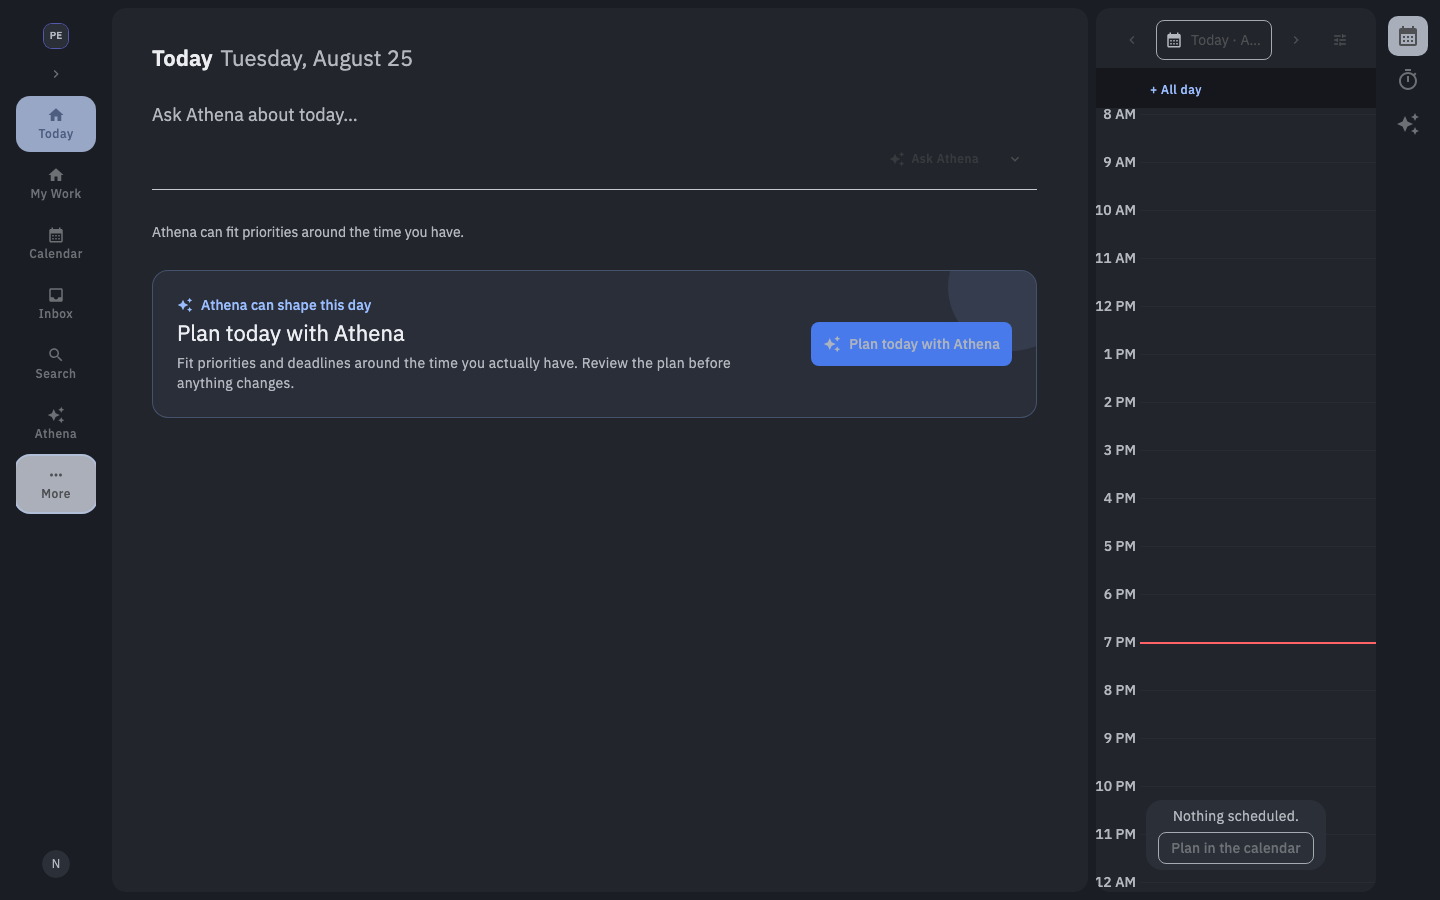
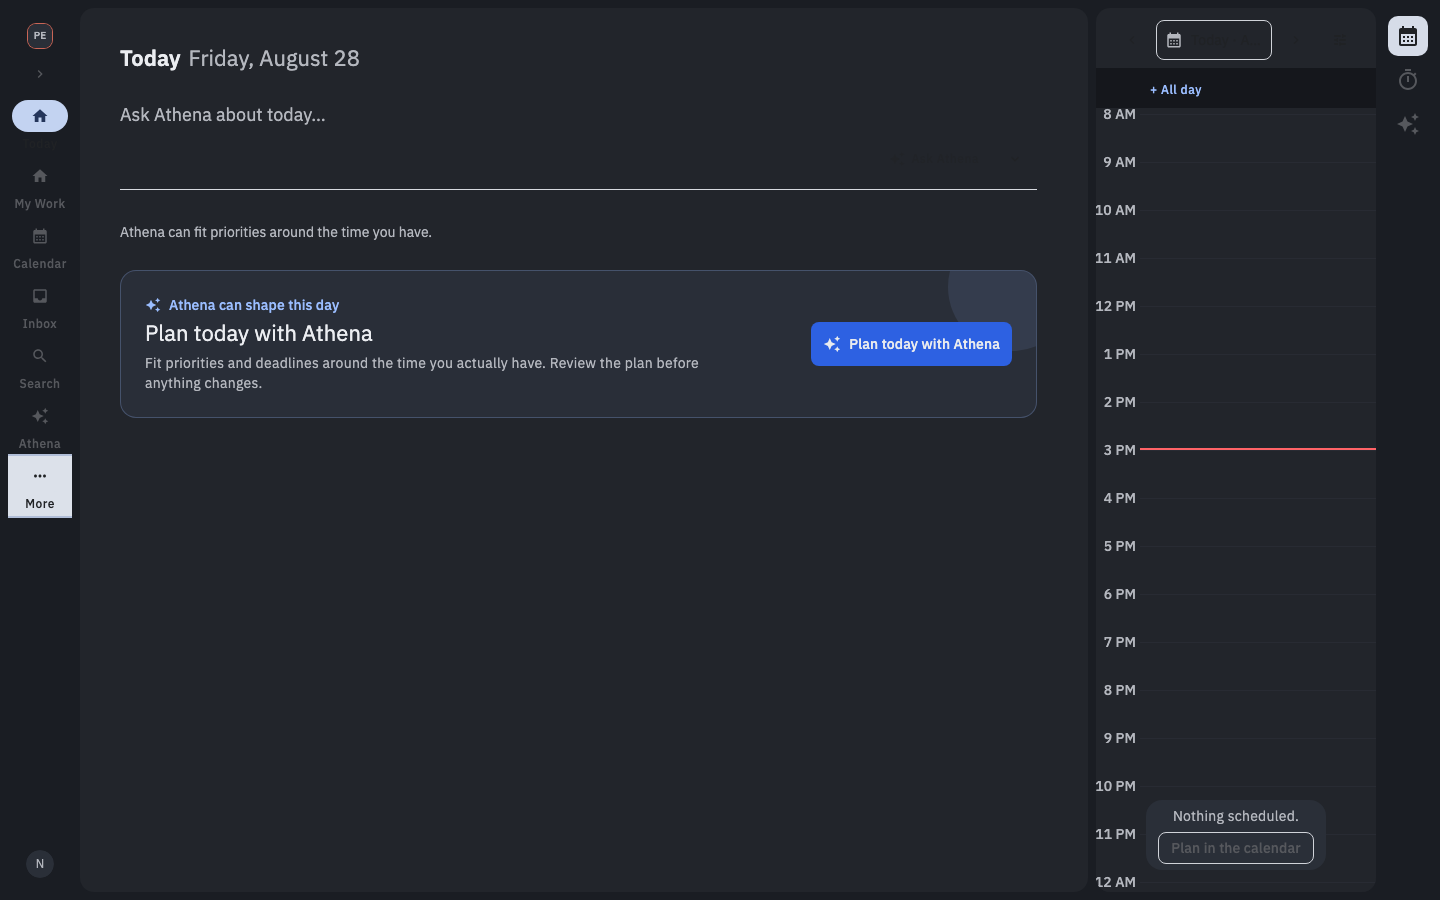
fix(ui): Keep collapsed navigation within the MD3 rail width
The collapsed shell reserved 112px before main content because it
combined Material 3 Expressive's 96px rail with an outer inset and
column gap. Docket uses the baseline Material 3 component measurements,
so the shell now treats the complete viewport-to-main region as one 80px
contract.

Navigation items now use baseline MD3 spacing, 24px icons, and 56x32px
active indicators. The shell test derives the full region from rendered
classes, and the authenticated browser evidence measures the real
main-content boundary.

diff --git a/packages/ui/src/components/shell/NavigationRail.tsx b/packages/ui/src/components/shell/NavigationRail.tsx
@@ -79,14 +79,22 @@ function RailDestination({
   const Icon = destination.icon;
   const label = destinationLabel(destination, unreadCount ?? 0);
   const className = cn(
-    'text-label-medium focus-visible:ring-ring flex min-h-14 w-full flex-col items-center justify-center gap-0.5 rounded-xl px-1 py-1.5 text-center transition-colors focus-visible:ring-2 focus-visible:outline-none [&_svg]:size-5',
-    destination.active
-      ? 'bg-secondary-container text-on-secondary-container'
-      : 'text-on-surface-variant hover:bg-surface-container-high hover:text-on-surface',
+    'group text-label-medium focus-visible:ring-ring flex min-h-[3.75rem] w-full flex-col items-center justify-center gap-1 rounded-none px-1 py-1 text-center transition-colors focus-visible:ring-2 focus-visible:outline-none',
+    destination.active ? 'text-on-surface' : 'text-on-surface-variant hover:text-on-surface',
   );
   const content = (
     <>
-      <Icon aria-hidden="true" />
+      <span
+        data-slot="navigation-rail-active-indicator"
+        className={cn(
+          'flex h-8 w-14 shrink-0 items-center justify-center rounded-full transition-colors',
+          destination.active
+            ? 'bg-secondary-container text-on-secondary-container'
+            : 'group-hover:bg-surface-container-high',
+        )}
+      >
+        <Icon aria-hidden="true" className="size-6" />
+      </span>
       <span className="max-w-full truncate">{destination.label}</span>
     </>
   );
@@ -198,7 +206,7 @@ export function NavigationRail({
   return (
     <aside
       aria-label="Navigation"
-      className="text-on-surface flex h-full w-full shrink-0 flex-col items-center p-2 motion-reduce:transition-none lg:w-24 lg:transition-[width] lg:duration-200 lg:ease-out"
+      className="text-on-surface flex h-full w-full shrink-0 flex-col items-center px-0 py-2 motion-reduce:transition-none lg:w-16 lg:transition-[width] lg:duration-200 lg:ease-out"
     >
       <div className="flex w-full shrink-0 flex-col items-center gap-1">
         <WorkspaceSwitcher
@@ -225,7 +233,7 @@ export function NavigationRail({
       </div>
 
       <nav aria-label="Primary navigation" className="min-h-0 w-full flex-1 overflow-y-auto pt-2">
-        <div className="flex flex-col gap-1">
+        <div className="flex flex-col gap-0">
           {railDestinations.map((destination) => (
             <div
               key={destination.id}
@@ -249,9 +257,11 @@ export function NavigationRail({
                 type="button"
                 variant="ghost"
                 aria-label="More navigation"
-                className="text-label-medium text-on-surface-variant hover:bg-surface-container-high hover:text-on-surface focus-visible:ring-ring flex min-h-14 w-full flex-col items-center justify-center gap-0.5 rounded-xl px-1 py-1.5 text-center transition-colors focus-visible:ring-2 focus-visible:outline-none [&_svg]:size-5"
+                className="group text-label-medium text-on-surface-variant hover:text-on-surface focus-visible:ring-ring flex min-h-[3.75rem] w-full flex-col items-center justify-center gap-1 rounded-none px-1 py-1 text-center transition-colors focus-visible:ring-2 focus-visible:outline-none"
               >
-                <Ellipsis aria-hidden="true" />
+                <span className="group-hover:bg-surface-container-high flex h-8 w-14 shrink-0 items-center justify-center rounded-full transition-colors">
+                  <Ellipsis aria-hidden="true" className="size-6" />
+                </span>
                 <span>More</span>
               </Button>
             </DropdownMenuTrigger>

diff --git a/packages/ui/src/components/shell/AppShell.tsx b/packages/ui/src/components/shell/AppShell.tsx
@@ -140,16 +140,17 @@ export const SHELL_DESKTOP_MIN_PX = 1024;
 export const SHELL_DESKTOP_CHROME_PX = 328;
 
 /**
- * The same chrome with the sidebar collapsed to its labeled MD3 rail: 96px of sidebar in place of
- * 240px.
+ * The same chrome with the sidebar collapsed to its labeled MD3 rail: an 80px region in place of
+ * the expanded sidebar's 256px region. The region includes the shell's 8px leading inset, the
+ * 64px navigation column, and the 8px gap before `<main>`.
  *
  * @remarks
  * The column *count* is unchanged, so the 40px of gutters and the 48px activity bar are identical —
- * only the sidebar's own width moves, and it moves by a constant. Collapsing therefore hands
- * `<main>` a flat 144px at every width rather than a share, which is why it can be offered at all
+ * only the sidebar region's width moves, and it moves by a constant. Collapsing therefore hands
+ * `<main>` a flat 176px at every width rather than a share, which is why it can be offered at all
  * widths without putting a slope anywhere in the contract.
  */
-export const SHELL_DESKTOP_CHROME_COLLAPSED_PX = 184;
+export const SHELL_DESKTOP_CHROME_COLLAPSED_PX = 152;
 
 /**
  * The viewport width at or above which the sidebar starts out expanded.
@@ -158,8 +159,8 @@ export const SHELL_DESKTOP_CHROME_COLLAPSED_PX = 184;
  * Below this the shell has to spend its width on the content and the rail, and a 240px column of
  * labels is the least valuable of the three — the same daily destinations stay visible in the
  * labeled rail. Sampled **once, at mount**, and only when the viewer has expressed no preference:
- * making it track the window live would mean dragging a window across 1440px silently took 144px away from
- * `<main>`, which is the exact discontinuity the rest of this contract exists to prevent.
+ * making it track the window live would mean dragging a window across 1440px silently took 176px
+ * away from `<main>`, which is the exact discontinuity the rest of this contract exists to prevent.
  */
 export const SHELL_SIDEBAR_EXPAND_MIN_PX = 1440;
 
@@ -272,7 +273,7 @@ function readRailState(): RailState {
  *
  * Deliberately **not** re-evaluated on resize. The width test is a first-run default, not a
  * responsive rule: recomputing it live would make dragging a window across
- * {@link SHELL_SIDEBAR_EXPAND_MIN_PX} hand `<main>` 144px less than it had a pixel earlier, which is
+ * {@link SHELL_SIDEBAR_EXPAND_MIN_PX} hand `<main>` 176px less than it had a pixel earlier, which is
  * precisely the discontinuity the layout contract forbids.
  */
 function readSidebarCollapsed(): boolean {

diff --git a/packages/ui/tests/components/shell/shell-layout-contract.test.tsx b/packages/ui/tests/components/shell/shell-layout-contract.test.tsx
@@ -117,9 +117,9 @@ const SHELL_STATES = [
  * geometry read below would measure the *collapsed* column and every arithmetic check would be
  * against a chrome width the contract does not advertise.
  */
-function renderShell(): void {
+function renderShell(sidebarCollapsed = false): void {
   window.localStorage.setItem('docket.rail.collapsed', '0');
-  window.localStorage.setItem('docket.sidebar.collapsed', '0');
+  window.localStorage.setItem('docket.sidebar.collapsed', sidebarCollapsed ? '1' : '0');
   render(
     <ContextProvider initialContext={ACME.id}>
       <AppShell
@@ -140,6 +140,23 @@ function renderShell(): void {
       </AppShell>
     </ContextProvider>,
   );
+}
+
+/** The complete horizontal region consumed before collapsed navigation hands off to `<main>`. */
+function collapsedNavigationRegionPx(): number {
+  const main = screen.getByRole('main');
+  const shell = main.closest('[data-density]');
+  if (!shell) throw new Error('The shell root must carry data-density');
+
+  const padding = /(?:^| )lg:p-(\d+)(?: |$)/.exec(shell.className);
+  const gap = /(?:^| )lg:gap-(\d+)(?: |$)/.exec(shell.className);
+  if (!padding?.[1] || !gap?.[1]) throw new Error('The shell root must declare lg padding and gap');
+
+  const nav = screen.getByRole('complementary', { name: 'Navigation' });
+  const navWidth = columnWidthPx(nav, 'lg:');
+  if (navWidth === null) throw new Error('The collapsed navigation must declare a fixed width');
+
+  return spacingPx(Number(padding[1])) + navWidth + spacingPx(Number(gap[1]));
 }
 
 /** The shell's measured inputs, read out of one render of the real components. */
@@ -217,8 +234,10 @@ const DESKTOP_WIDTHS = Array.from(
 const COMPACT_WIDTHS = Array.from({ length: SHELL_DESKTOP_MIN_PX - 320 }, (_, i) => 320 + i);
 
 describe('AppShell layout contract — geometry read from the rendered shell', () => {
-  it('reserves 96px for the labeled navigation rail when the sidebar is collapsed', () => {
-    expect(SHELL_DESKTOP_CHROME_COLLAPSED_PX).toBe(SHELL_DESKTOP_CHROME_PX - 144);
+  it('keeps the entire collapsed navigation region within the 80px MD3 rail width', () => {
+    renderShell(true);
+
+    expect(collapsedNavigationRegionPx()).toBe(80);
   });
 
   it('sizes the rail as a viewport share, and every other column as a constant', () => {

diff --git a/apps/web/e2e/shell/navigation-rail-evidence.spec.ts b/apps/web/e2e/shell/navigation-rail-evidence.spec.ts
@@ -24,6 +24,22 @@ async function expectNoHorizontalOverflow(page: Page): Promise<void> {
   expect(dimensions.scrollWidth).toBeLessThanOrEqual(dimensions.clientWidth + 1);
 }
 
+/** Assert that every collapsed-navigation pixel, including shell spacing, fits the MD3 width. */
+async function expectCollapsedNavigationRegion(page: Page): Promise<void> {
+  const geometry = await page.evaluate(() => {
+    const main = document.querySelector<HTMLElement>('main#main-content');
+    const navigation = document.querySelector<HTMLElement>('aside[aria-label="Navigation"]');
+    if (!main || !navigation) throw new Error('The shell navigation and main content must exist');
+    return {
+      mainStart: main.getBoundingClientRect().left,
+      navigationWidth: navigation.getBoundingClientRect().width,
+    };
+  });
+
+  expect(geometry.mainStart).toBe(80);
+  expect(geometry.navigationWidth).toBe(64);
+}
+
 test('the labeled navigation rail keeps daily work visible at every density', async ({ page }) => {
   test.setTimeout(240_000);
   mkdirSync(SHOT_ROOT, { recursive: true });
@@ -56,6 +72,7 @@ test('the labeled navigation rail keeps daily work visible at every density', as
     /Today[\s\S]*My Work[\s\S]*Calendar[\s\S]*Inbox[\s\S]*Search[\s\S]*Athena[\s\S]*More/,
   );
   await expect(page.getByRole('button', { name: 'Expand navigation' })).toBeFocused();
+  await expectCollapsedNavigationRegion(page);
   await page.screenshot({ path: resolve(SHOT_ROOT, 'rail-1440x900-light.png') });
 
   await page.getByRole('button', { name: 'More navigation' }).click();

diff --git a/packages/ui/tests/components/shell/navigation-rail.test.tsx b/packages/ui/tests/components/shell/navigation-rail.test.tsx
@@ -18,6 +18,7 @@ function renderRail(unreadCount?: number): void {
       <ShellSidebarProvider value={{ collapsed: true, onToggle: () => undefined }}>
         <Sidebar
           workspaces={[ACME]}
+          activeHomeKey="today"
           unreadCount={unreadCount}
           hrefForHome={(key) => `/${key}`}
           hrefForWorkspace={(orgId, key) => `/orgs/${orgId}/${key}`}
@@ -38,6 +39,21 @@ describe('collapsed sidebar navigation rail', () => {
     expect(screen.getByRole('navigation', { name: 'Primary navigation' })).toHaveTextContent(
       'TodayMy WorkCalendarInboxSearchAthenaMore',
     );
+  });
+
+  it('uses the baseline MD3 item and active-indicator geometry', () => {
+    renderRail();
+
+    const primary = screen.getByRole('navigation', { name: 'Primary navigation' });
+    const destinations = primary.firstElementChild;
+    const today = screen.getByRole('link', { name: 'Today' });
+    const indicator = today.querySelector('[data-slot="navigation-rail-active-indicator"]');
+    const icon = indicator?.querySelector('svg');
+
+    expect(destinations).toHaveClass('gap-0');
+    expect(today).toHaveClass('min-h-[3.75rem]');
+    expect(indicator).toHaveClass('h-8', 'w-14', 'rounded-full');
+    expect(icon).toHaveClass('size-6');
   });
 
   it('gives each persisted navigation identity one unique shared-element name', () => {

diff --git a/packages/ui/tests/components/shell/shell-full.test.tsx b/packages/ui/tests/components/shell/shell-full.test.tsx
@@ -641,7 +641,7 @@ describe('Sidebar collapse', () => {
 
   it('narrows to the labeled navigation rail, and back', () => {
     renderSidebar(true);
-    expect(screen.getByRole('complementary', { name: 'Navigation' })).toHaveClass('lg:w-24');
+    expect(screen.getByRole('complementary', { name: 'Navigation' })).toHaveClass('lg:w-16');
     cleanupRender();
     renderSidebar(false);
     expect(screen.getByRole('complementary', { name: 'Navigation' })).toHaveClass('lg:w-60');
